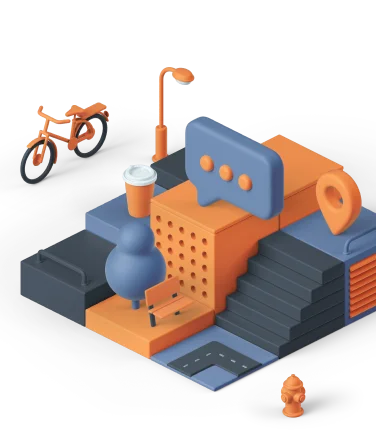
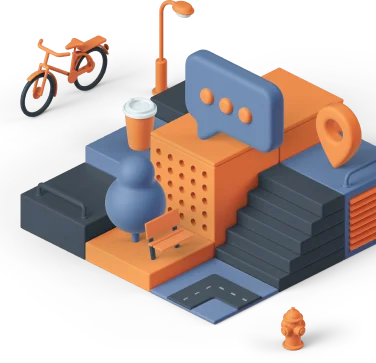
fix: change the way to export as default components navigation & update styles for nav links

diff --git a/practices/practice-two/src/layouts/Header/index.tsx b/practices/practice-two/src/layouts/Header/index.tsx
@@ -3,7 +3,7 @@ import { memo } from 'react';
 
 // Components
 import Logo from '@components/common/Logo';
-import { Navigation } from '@components/common/Navigation';
+import Navigation from '@components/common/Navigation';
 import { Button } from '@components/common/Button';
 import { HamburgerMenu } from '@components/common/HamburgerMenu';
 
@@ -30,10 +30,10 @@ export const Header = memo(({
           <nav className="site-navigation">
             <Navigation />
             <ul className="user-form">
-              <li id="logIn" className="navigation-item">
+              <li id="logIn" className="navigation-list-item">
                 <a className="link-label" href="/login">Login</a>
               </li>
-              <li id="signUp" className="navigation-item">
+              <li id="signUp" className="navigation-list-item">
                 <Button
                   label="Sign up"
                   onClick={onSignUp}

diff --git a/practices/practice-two/src/assets/stylesheets/sections/_hero-banner.scss b/practices/practice-two/src/assets/stylesheets/sections/_hero-banner.scss
@@ -12,6 +12,7 @@
 
     @include only-for-tablet() {
       flex-direction: row;
+      margin: 40px 0 80px;
     }
 
     &-content {
@@ -44,6 +45,7 @@
     }
 
     &-image {
+      @extend %z-index-99;
       margin-top: 60px;
       margin-right: -12px;
       
@@ -51,8 +53,8 @@
         position: absolute;
         top: 0;
         right: 0;
-        margin-top: 20px;
-        margin-right: 0;
+        margin-top: 140px;
+        margin-right: -22px;
         text-align: right;
       }
     }
@@ -69,13 +71,11 @@
 
     .img-item {
       @include only-for-tablet() {
-        width: 560px;
-        height: 588px;
+        width: 609px;
       }
 
       @include only-for-desktop() {
-        width: 828px;
-        height: 879px;
+        width: 795px;
       }
     }
 
